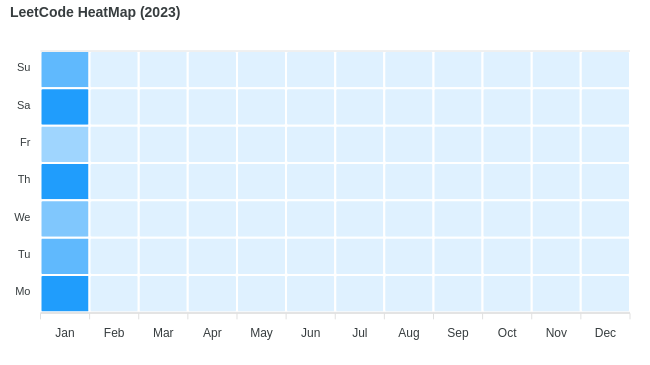
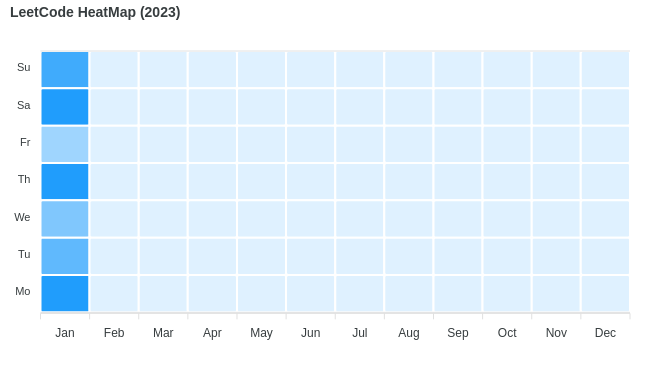
update heatmap.png

Changed region(s): [[0.0615, 0.1205, 0.1538, 0.2411]]

diff --git a/README.md b/README.md
@@ -3,7 +3,7 @@
 
 Collection of LeetCode questions to ace the coding interview! - Created using [LeetHub](https://github.com/QasimWani/LeetHub)
 
-> Questions solved 221 uniq: 93
+> Questions solved 222 uniq: 93
 
 ## Contribution 
 
